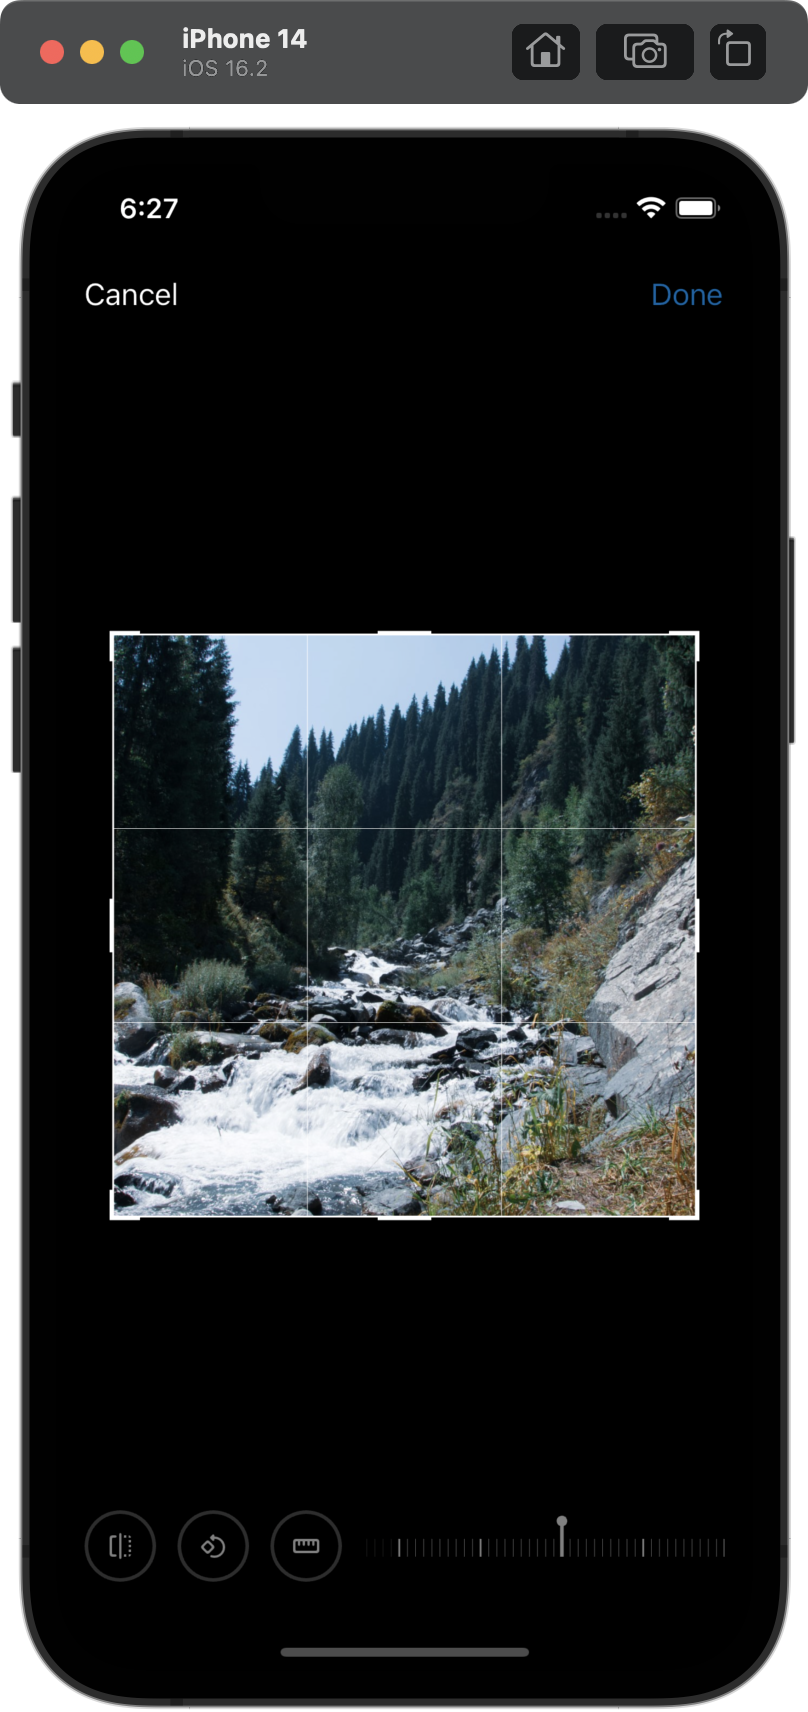
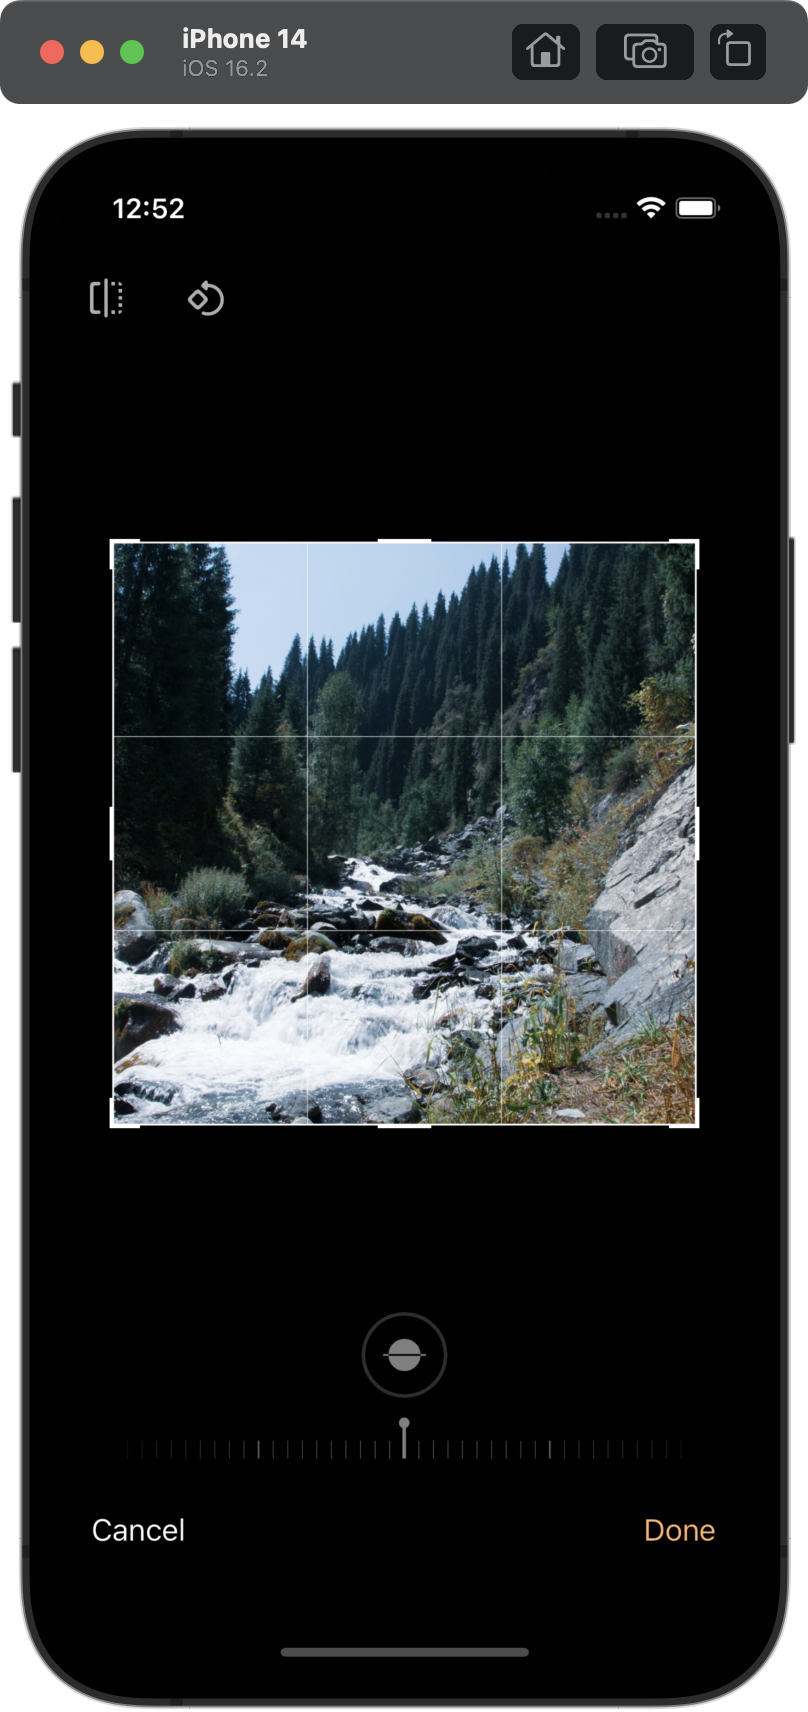
feat: minor fixes, new Cupertino design

diff --git a/lib/src/widgets/cupertino/cupertino_image_cropper_bottom_app_bar.dart b/lib/src/widgets/cupertino/cupertino_image_cropper_bottom_app_bar.dart
@@ -18,6 +18,12 @@ class CupertinoImageCropperBottomAppBar extends StatelessWidget
       children: [
         CupertinoButton(
           onPressed: () => Navigator.maybePop(context),
+          padding: const EdgeInsets.only(
+            left: 4.0,
+            right: 16.0,
+            top: 16.0,
+            bottom: 16.0,
+          ),
           child: const Text(
             'Cancel',
             style: TextStyle(color: CupertinoColors.white),
@@ -33,6 +39,12 @@ class CupertinoImageCropperBottomAppBar extends StatelessWidget
               Navigator.of(context).pop(result);
             }
           },
+          padding: const EdgeInsets.only(
+            left: 16.0,
+            right: 4.0,
+            top: 16.0,
+            bottom: 16.0,
+          ),
           child: const Text('Done'),
         ),
       ],

diff --git a/lib/src/widgets/common/resizable_gesture_detector.dart b/lib/src/widgets/common/resizable_gesture_detector.dart
@@ -1,4 +1,5 @@
 import 'package:croppy/src/src.dart';
+import 'package:flutter/gestures.dart';
 import 'package:flutter/material.dart';
 
 class ResizableGestureDetector extends StatelessWidget {
@@ -152,6 +153,7 @@ class _ResizeGestureDetectorState extends State<_ResizeGestureDetector> {
   Widget build(BuildContext context) {
     return GestureDetector(
       behavior: HitTestBehavior.opaque,
+      dragStartBehavior: DragStartBehavior.down,
       onPanStart: _onPanStart,
       onPanUpdate: _onPanUpdate,
       onPanEnd: _onPanEnd,

diff --git a/CHANGELOG.md b/CHANGELOG.md
@@ -1,3 +1,8 @@
+# 0.0.3
+
+* Implemented a new UI for the Cupertino cropper
+* Added `heroTag` parameters - if passed, the cropper will be animated with a Hero animation
+
 ## 0.0.2
 
 * Fixed images not linking properly in README
